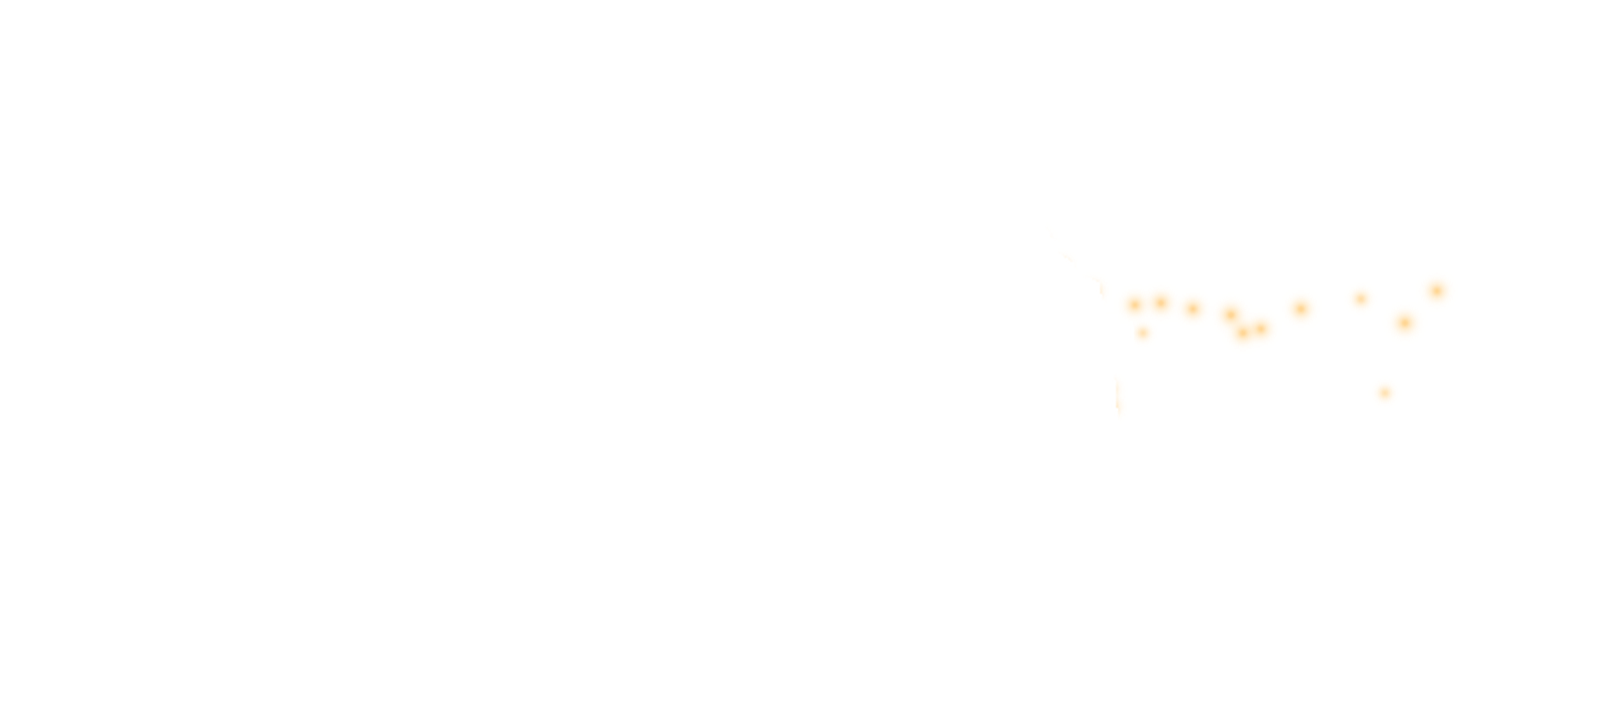
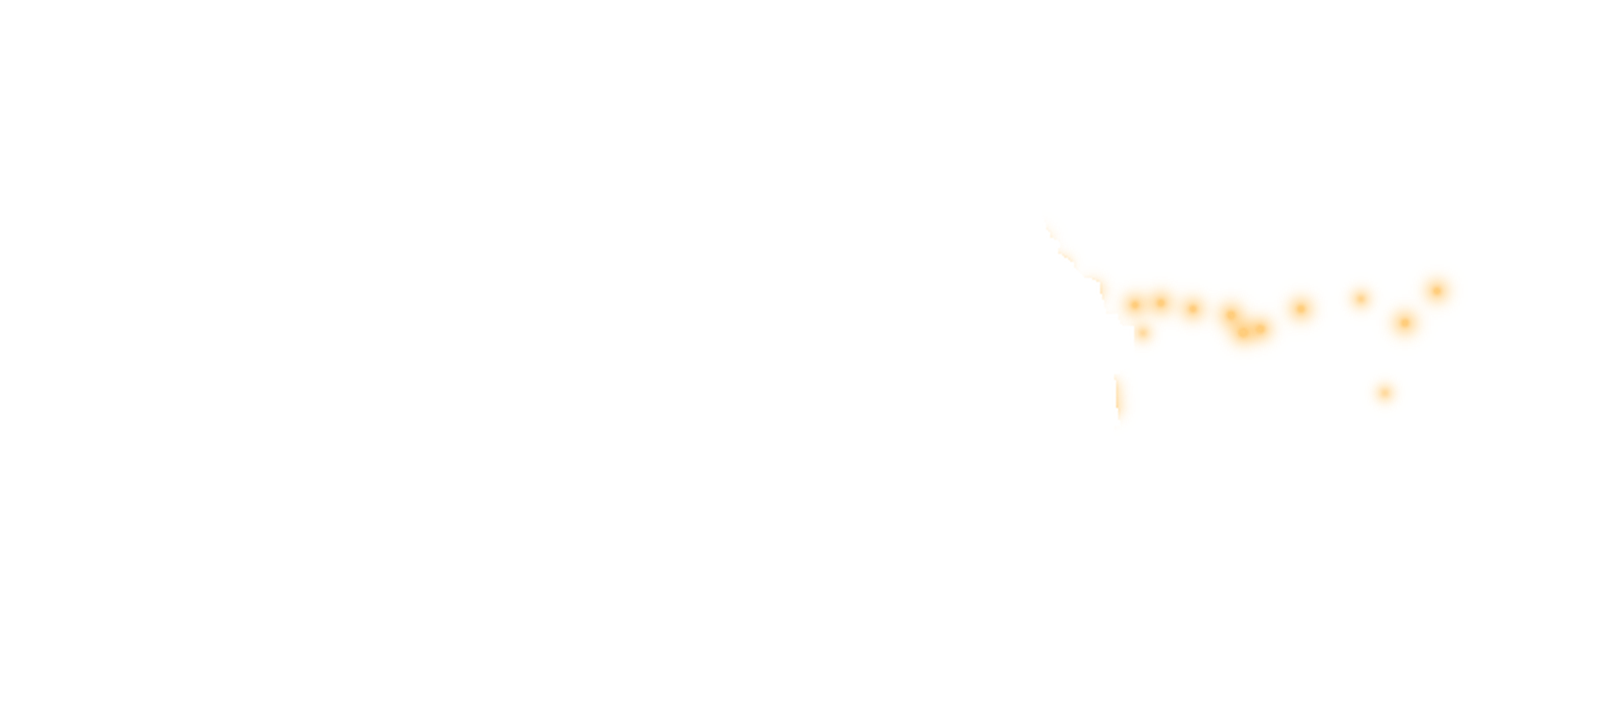
Adriana Pool edge fix: rim shave, brighter night lights, star-dosed sparkle

Changed region(s): [[0.6841, 0.3729, 0.9017, 0.4972]]

diff --git a/adriana-pool/index.html b/adriana-pool/index.html
@@ -45,7 +45,9 @@
     <img id="lyrDay" src="still.jpg" alt="The original photo, untouched">
     <img id="lyrGolden" src="golden.jpg" alt="" style="opacity:0">
     <img id="lyrGlow" src="glow.jpg" alt="" style="opacity:0">
-    <img id="lyrSparkle" src="acc-sparkle.png" alt="" style="opacity:0">
+    <img id="lyrSparkleA" src="acc-sparkle-a.png" alt="" style="opacity:0">
+    <img id="lyrSparkleB" src="acc-sparkle-b.png" alt="" style="opacity:0">
+    <img id="lyrSparkleC" src="acc-sparkle-c.png" alt="" style="opacity:0">
     <img id="lyrFlowers" src="acc-flowers.png" alt="" style="opacity:0">
     <img id="lyrLamps" src="acc-lamps.png" alt="" style="opacity:0">
     <img id="lyrStrA" src="acc-string-a.png" alt="" style="opacity:0">
@@ -73,7 +75,9 @@
     <img id="fsDay" src="still.jpg" alt="The original photo, untouched">
     <img id="fsGolden" src="golden.jpg" alt="" style="opacity:0">
     <img id="fsGlow" src="glow.jpg" alt="" style="opacity:0">
-    <img id="fsSparkle" src="acc-sparkle.png" alt="" style="opacity:0">
+    <img id="fsSparkleA" src="acc-sparkle-a.png" alt="" style="opacity:0">
+    <img id="fsSparkleB" src="acc-sparkle-b.png" alt="" style="opacity:0">
+    <img id="fsSparkleC" src="acc-sparkle-c.png" alt="" style="opacity:0">
     <img id="fsFlowers" src="acc-flowers.png" alt="" style="opacity:0">
     <img id="fsLamps" src="acc-lamps.png" alt="" style="opacity:0">
     <img id="fsStrA" src="acc-string-a.png" alt="" style="opacity:0">
@@ -102,7 +106,9 @@
     return { day: document.getElementById(p+'Day'),
              golden: document.getElementById(p+'Golden'),
              glow: document.getElementById(p+'Glow'),
-             sparkle: document.getElementById(p+'Sparkle'),
+             sparkleA: document.getElementById(p+'SparkleA'),
+             sparkleB: document.getElementById(p+'SparkleB'),
+             sparkleC: document.getElementById(p+'SparkleC'),
              flowers: document.getElementById(p+'Flowers'),
              lamps: document.getElementById(p+'Lamps'),
              stra: document.getElementById(p+'StrA'),
@@ -132,13 +138,17 @@
   }
   // Accents, each in its own colour on its own slow rhythm, riding a
   // scene envelope: the string lights wake as golden arrives and bloom
-  // at blue hour; her hair catches the golden hour hardest; the pool
-  // sparkle belongs to the sun and softens a little at night.
+  // at blue hour; her hair catches the golden hour hardest. The pool
+  // sparkle is star-like (Gary, Nov 2): three fleck groups on offset
+  // rhythms so the water shimmers, gated by glow^2 - point size never
+  // changes, only brightness, and full presence waits for deep night.
   // [key, period, phase, max, envelope, pulse floor]
-  var ACC = [ ['sparkle', 15, 0.7, 0.85, 'sun', 0.75],
+  var ACC = [ ['sparkleA',  9, 0.0, 0.95, 'night', 0.30],
+              ['sparkleB', 13, 4.2, 0.95, 'night', 0.30],
+              ['sparkleC', 17, 8.9, 0.95, 'night', 0.30],
               ['flowers', 12, 3.1, 0.95, 'dusk', 0.80],
-              ['lamps',    9, 2.2, 0.85, 'lamps', 0.55],
-              ['stra',    11, 0.0, 0.90, 'strings', 0.35],
+              ['lamps',    9, 2.2, 0.95, 'lamps', 0.55],
+              ['stra',    11, 0.0, 1.00, 'strings', 0.35],
               ['strb',    13, 4.4, 1.00, 'strings', 0.35],
               ['strc',    10, 6.1, 1.00, 'strings', 0.35],
               ['suit',    13, 3.0, 1.00, 'suit', 0.25],
@@ -147,7 +157,8 @@
     var so = opacities(t);
     var goldOnly = so.golden - so.glow;
     var dusk = so.glow + 0.5 * goldOnly;
-    var env = { sun: 1 - 0.30 * so.glow,
+    var env = { night: so.glow * so.glow,
+                sun: 1 - 0.30 * so.glow,
                 dusk: 0.5 + 0.5 * dusk,
                 lamps: 0.15 + 0.85 * dusk,
                 strings: 0.10 + 0.90 * dusk,
@@ -168,7 +179,9 @@
     st.golden.style.opacity = so.golden;
     st.glow.style.opacity = so.glow;
     st.held.style.opacity = living ? 1 : 0;
-    st.sparkle.style.opacity = living ? ao.sparkle : 0;
+    st.sparkleA.style.opacity = living ? ao.sparkleA : 0;
+    st.sparkleB.style.opacity = living ? ao.sparkleB : 0;
+    st.sparkleC.style.opacity = living ? ao.sparkleC : 0;
     st.flowers.style.opacity = living ? ao.flowers : 0;
     st.lamps.style.opacity = living ? ao.lamps : 0;
     st.stra.style.opacity = living ? ao.stra : 0;
